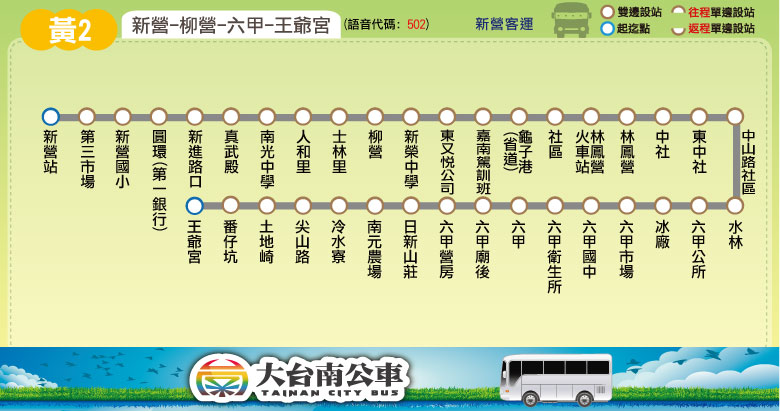
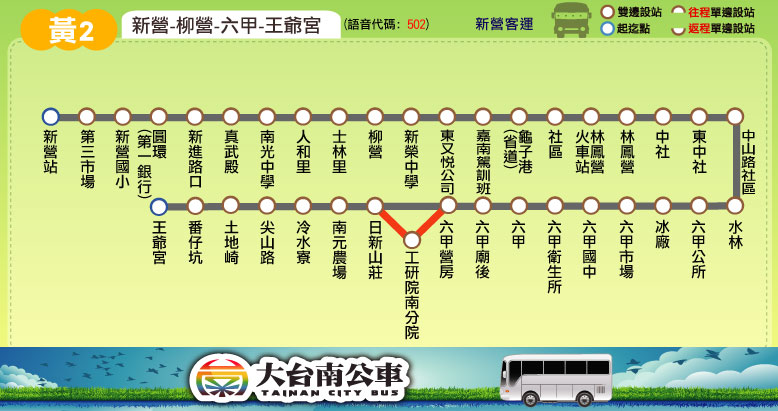
更新站點、時刻表及票價表：黃2 (繞駛工研院南分院)

diff --git a/route/fare_and_time/yellow_2.js b/route/fare_and_time/yellow_2.js
@@ -1,20 +1,20 @@
-yellow_2_interval_name = ["新營","人和里","柳營","龜子港","林鳳營","中社","六甲","六甲<br />營房","南元<br />農場","冷水寮","尖山路","土地崎","王爺宮"];
-yellow_2_interval_stop = [
-["新營站","新營國小","圓環(第一銀行)","新進路口","真武殿","南光中學"], // 新營
+yellow_2_interval_name = ["新營","人和里","柳營","龜子港","林鳳營","中社","六甲","六甲<br />營房","工研院","南元<br />農場","冷水寮","尖山路","土地崎","王爺宮"];
+yellow_2_interval_stop = [ // 2016.02.04 checked
+["新營站","第三市場","新營國小","圓環(第一銀行)","新進路口","真武殿","南光中學"], // 新營
 ["人和里"], // 人和里
-["士林里","柳營","新榮中學"], // 柳營
-["東又悅公司","嘉南駕訓班","龜子港(省道)"], // 龜子港
-["社區","林鳳營火車站","林鳳營"], // 林鳳營
-["中社","東中社","中山路社區","水林"], // 中社
-["六甲公所","冰廠","六甲市場","六甲國中","六甲衛生所","六甲","六甲廟後"], // 六甲
-["六甲營房","日新山莊"], // 六甲營房
-["南元農場"], // 南元農場
+["士林里","柳營","新榮中學","東又悅公司"], // 柳營
+["嘉南駕訓班","龜子港(省道)","社區"], // 龜子港
+["林鳳營火車站","林鳳營"], // 林鳳營
+["中社","東中社"], // 中社
+["中山路社區","水林","六甲公所","冰廠","六甲市場","六甲國中","六甲衛生所","六甲","六甲廟後"], // 六甲
+["六甲營房"], // 六甲營房
+["工研院南分院"], // 工研院南分院
+["日新山莊","南元農場"], // 南元農場
 ["冷水寮"], // 冷水寮
 ["尖山路"], // 尖山路
 ["土地崎"], // 土地崎
 ["番仔坑","王爺宮"] // 王爺宮
 ];
-yellow_2_stop_time_consume = [0,2,4,5,6,7,7,8,9,12,13,14,15,17,18,19,22,23,24,24,25,26,27,28,29,30,33,35,36,37,38,41,42,44,45];
 yellow_2_fare = [
 [26],
 [26,26],
@@ -24,17 +24,19 @@ yellow_2_fare = [
 [33,26,26,26,26,26],
 [46,38,33,26,26,26,26],
 [56,48,42,34,29,26,26,26],
-[58,50,44,36,31,26,26,26,26],
-[64,56,50,42,37,31,26,26,26,26],
-[68,60,54,46,41,35,26,26,26,26,26],
-[71,63,57,49,44,38,26,26,26,26,26,26],
-[75,67,62,53,48,42,29,26,26,26,26,26,26]
+[59,51,45,37,32,26,26,26,26],
+[63,55,50,41,36,30,26,26,26,26],
+[69,61,55,47,42,36,26,26,26,26,26],
+[73,65,60,51,46,40,27,26,26,26,26,26],
+[76,68,62,54,49,43,30,26,26,26,26,26,26],
+[81,72,67,58,53,47,34,26,26,26,26,26,26,26]
 ];
 // format = [time at the start stop] or
 // [time, other] or
 // [time, start_stop, end_stop, other]
-yellow_2_main_stop_name = ["新營","柳營","龜子港<br />(省道)","林鳳營<br />火車站","六甲","王爺宮"];
-yellow_2_main_stop_time_consume = [0, 9, 15, 18, 30, 45];
-yellow_2_important_stop = [0, 3, 4, 5]; // 新營, 林鳳營火車站, 六甲, 王爺宮
+yellow_2_main_stop_name = ["新營","柳營","龜子港<br />(省道)","林鳳營<br />火車站","六甲","工研院<br />南分院","王爺宮"];
+yellow_2_main_stop_time_consume = [0, 9, 15, 18, 30, 38, 50];
+yellow_2_important_stop = [0, 3, 4, 6]; // 新營, 林鳳營火車站, 六甲, 王爺宮
+var skip_stop = 5; // 工研院南分院
 yellow_2_time_go = [["07:30"],["11:00"],["14:20"],["17:45"]];
-yellow_2_time_return = [["06:00"],["08:20"],["11:50"],["15:10"]];
+yellow_2_time_return = [["06:00",[skip_stop]],["08:25"],["11:55"],["15:15"]];
